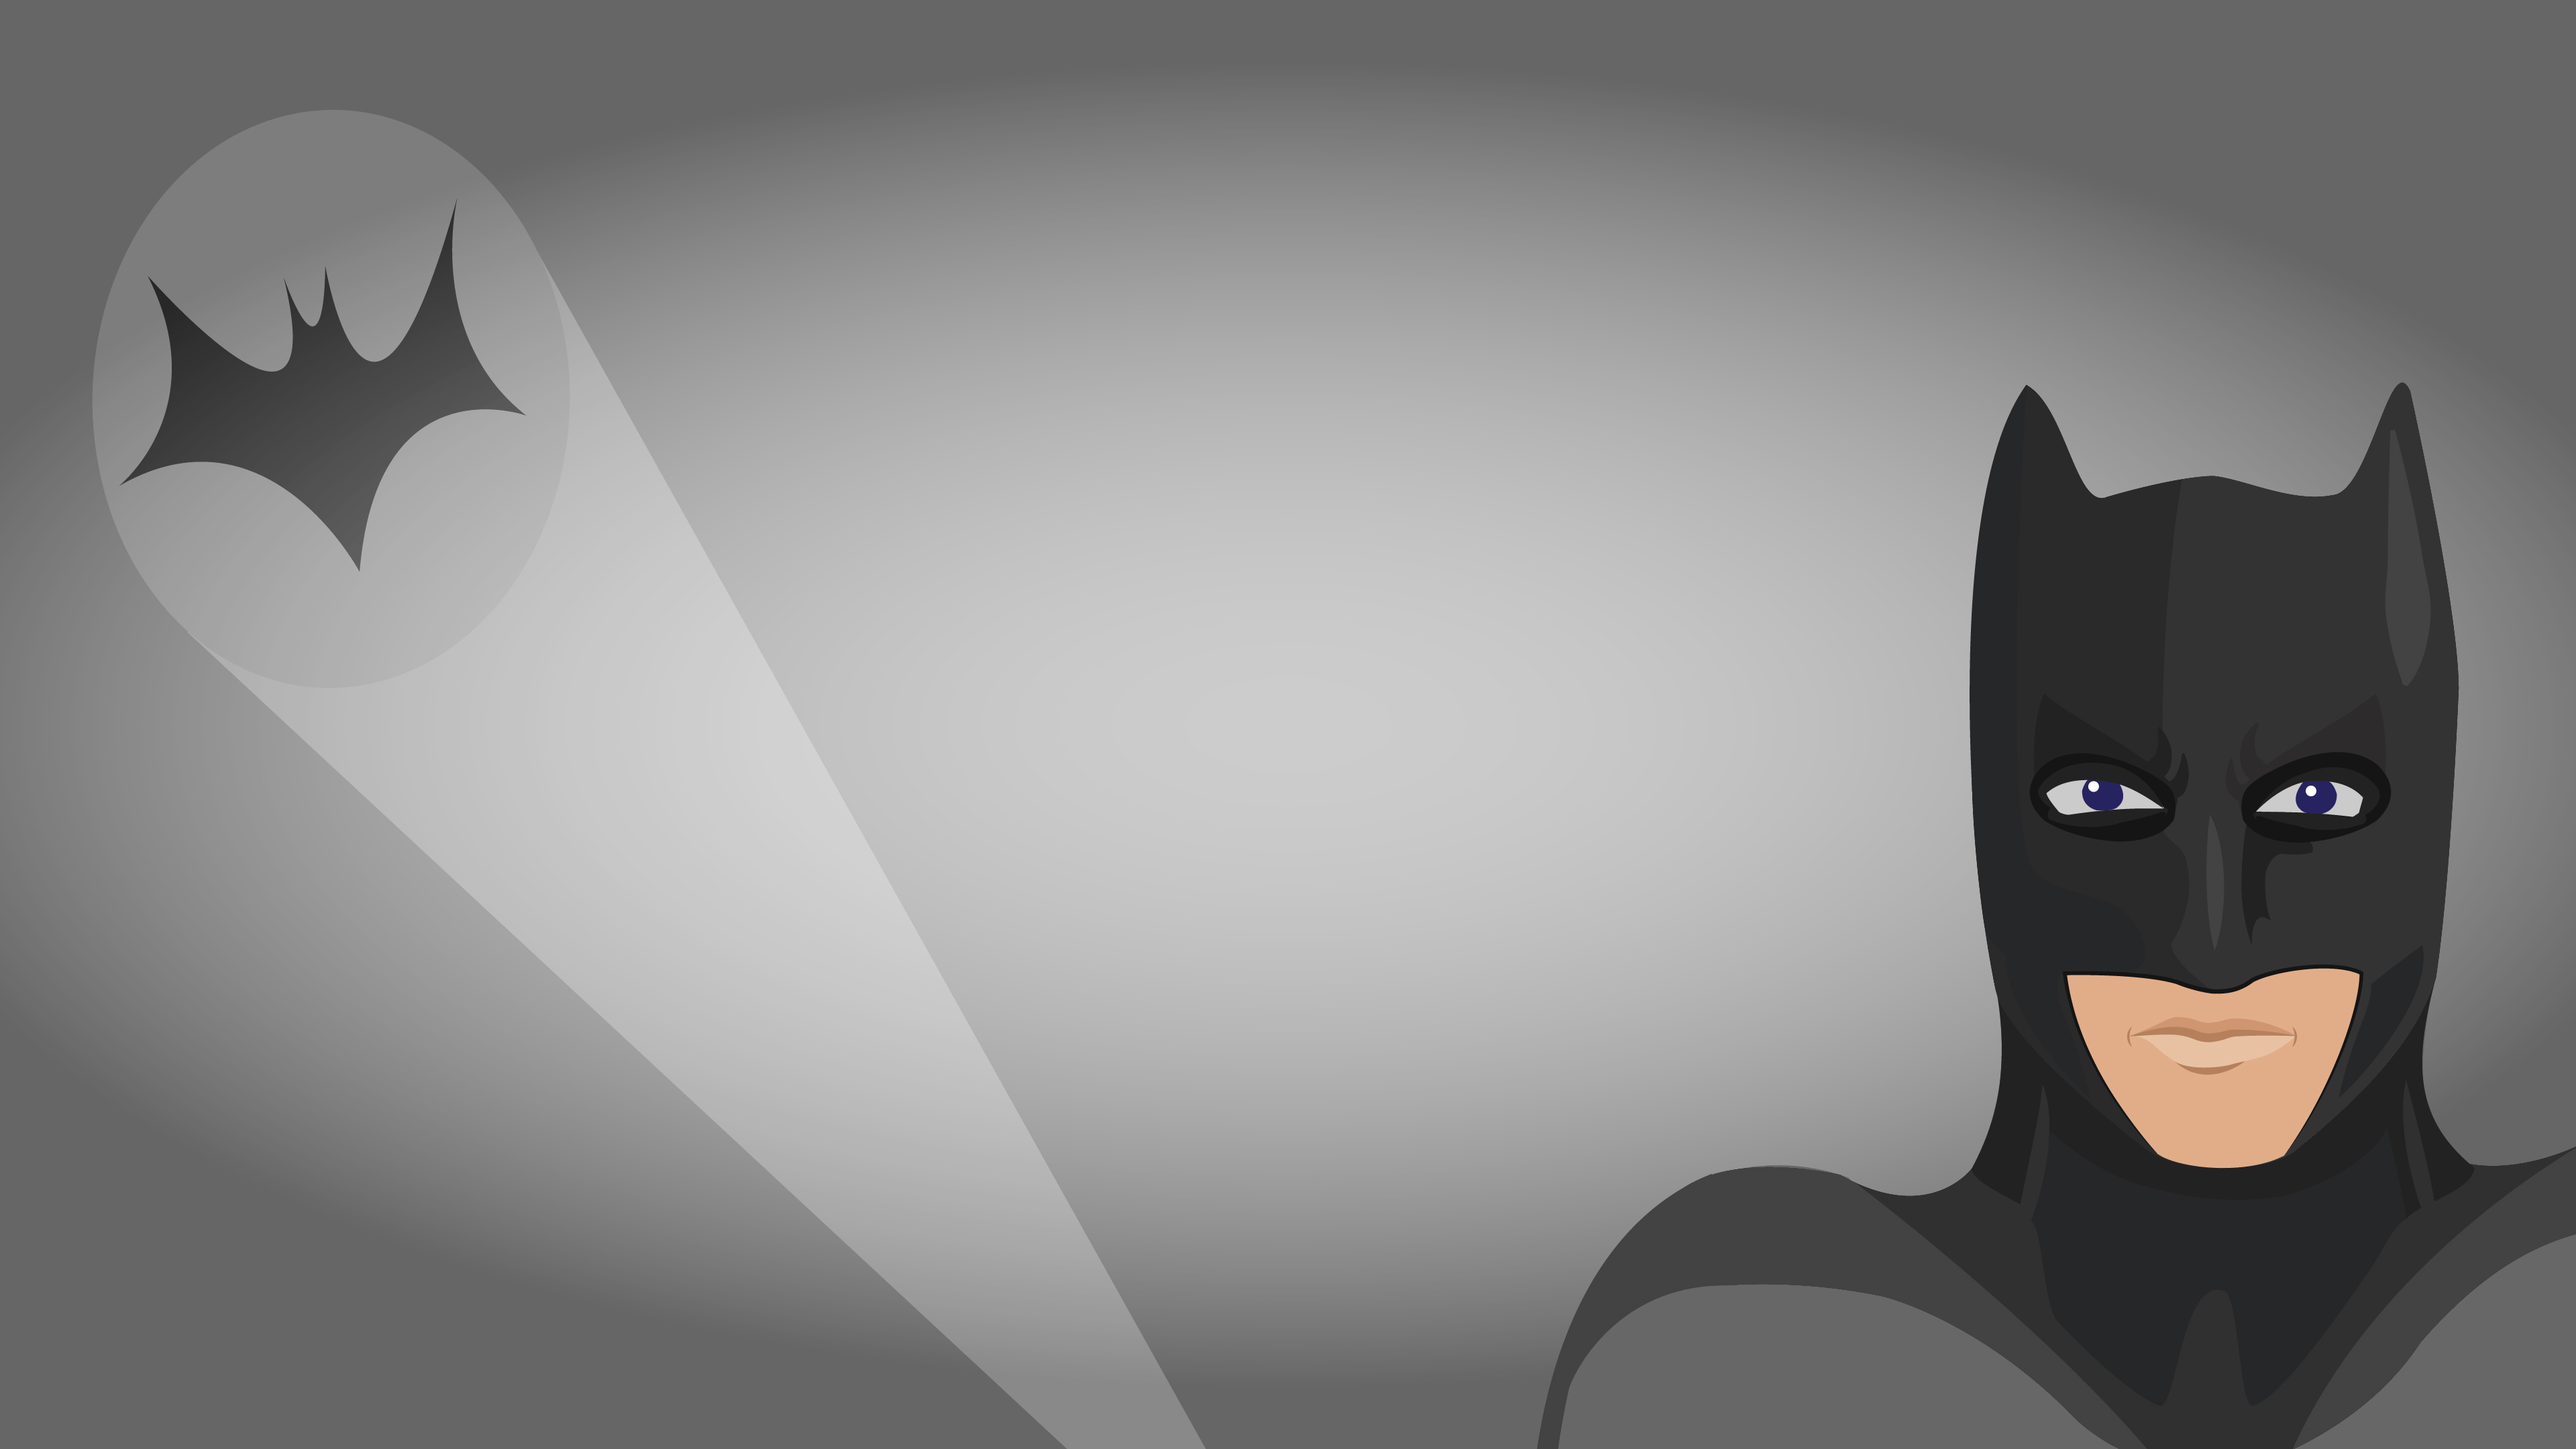
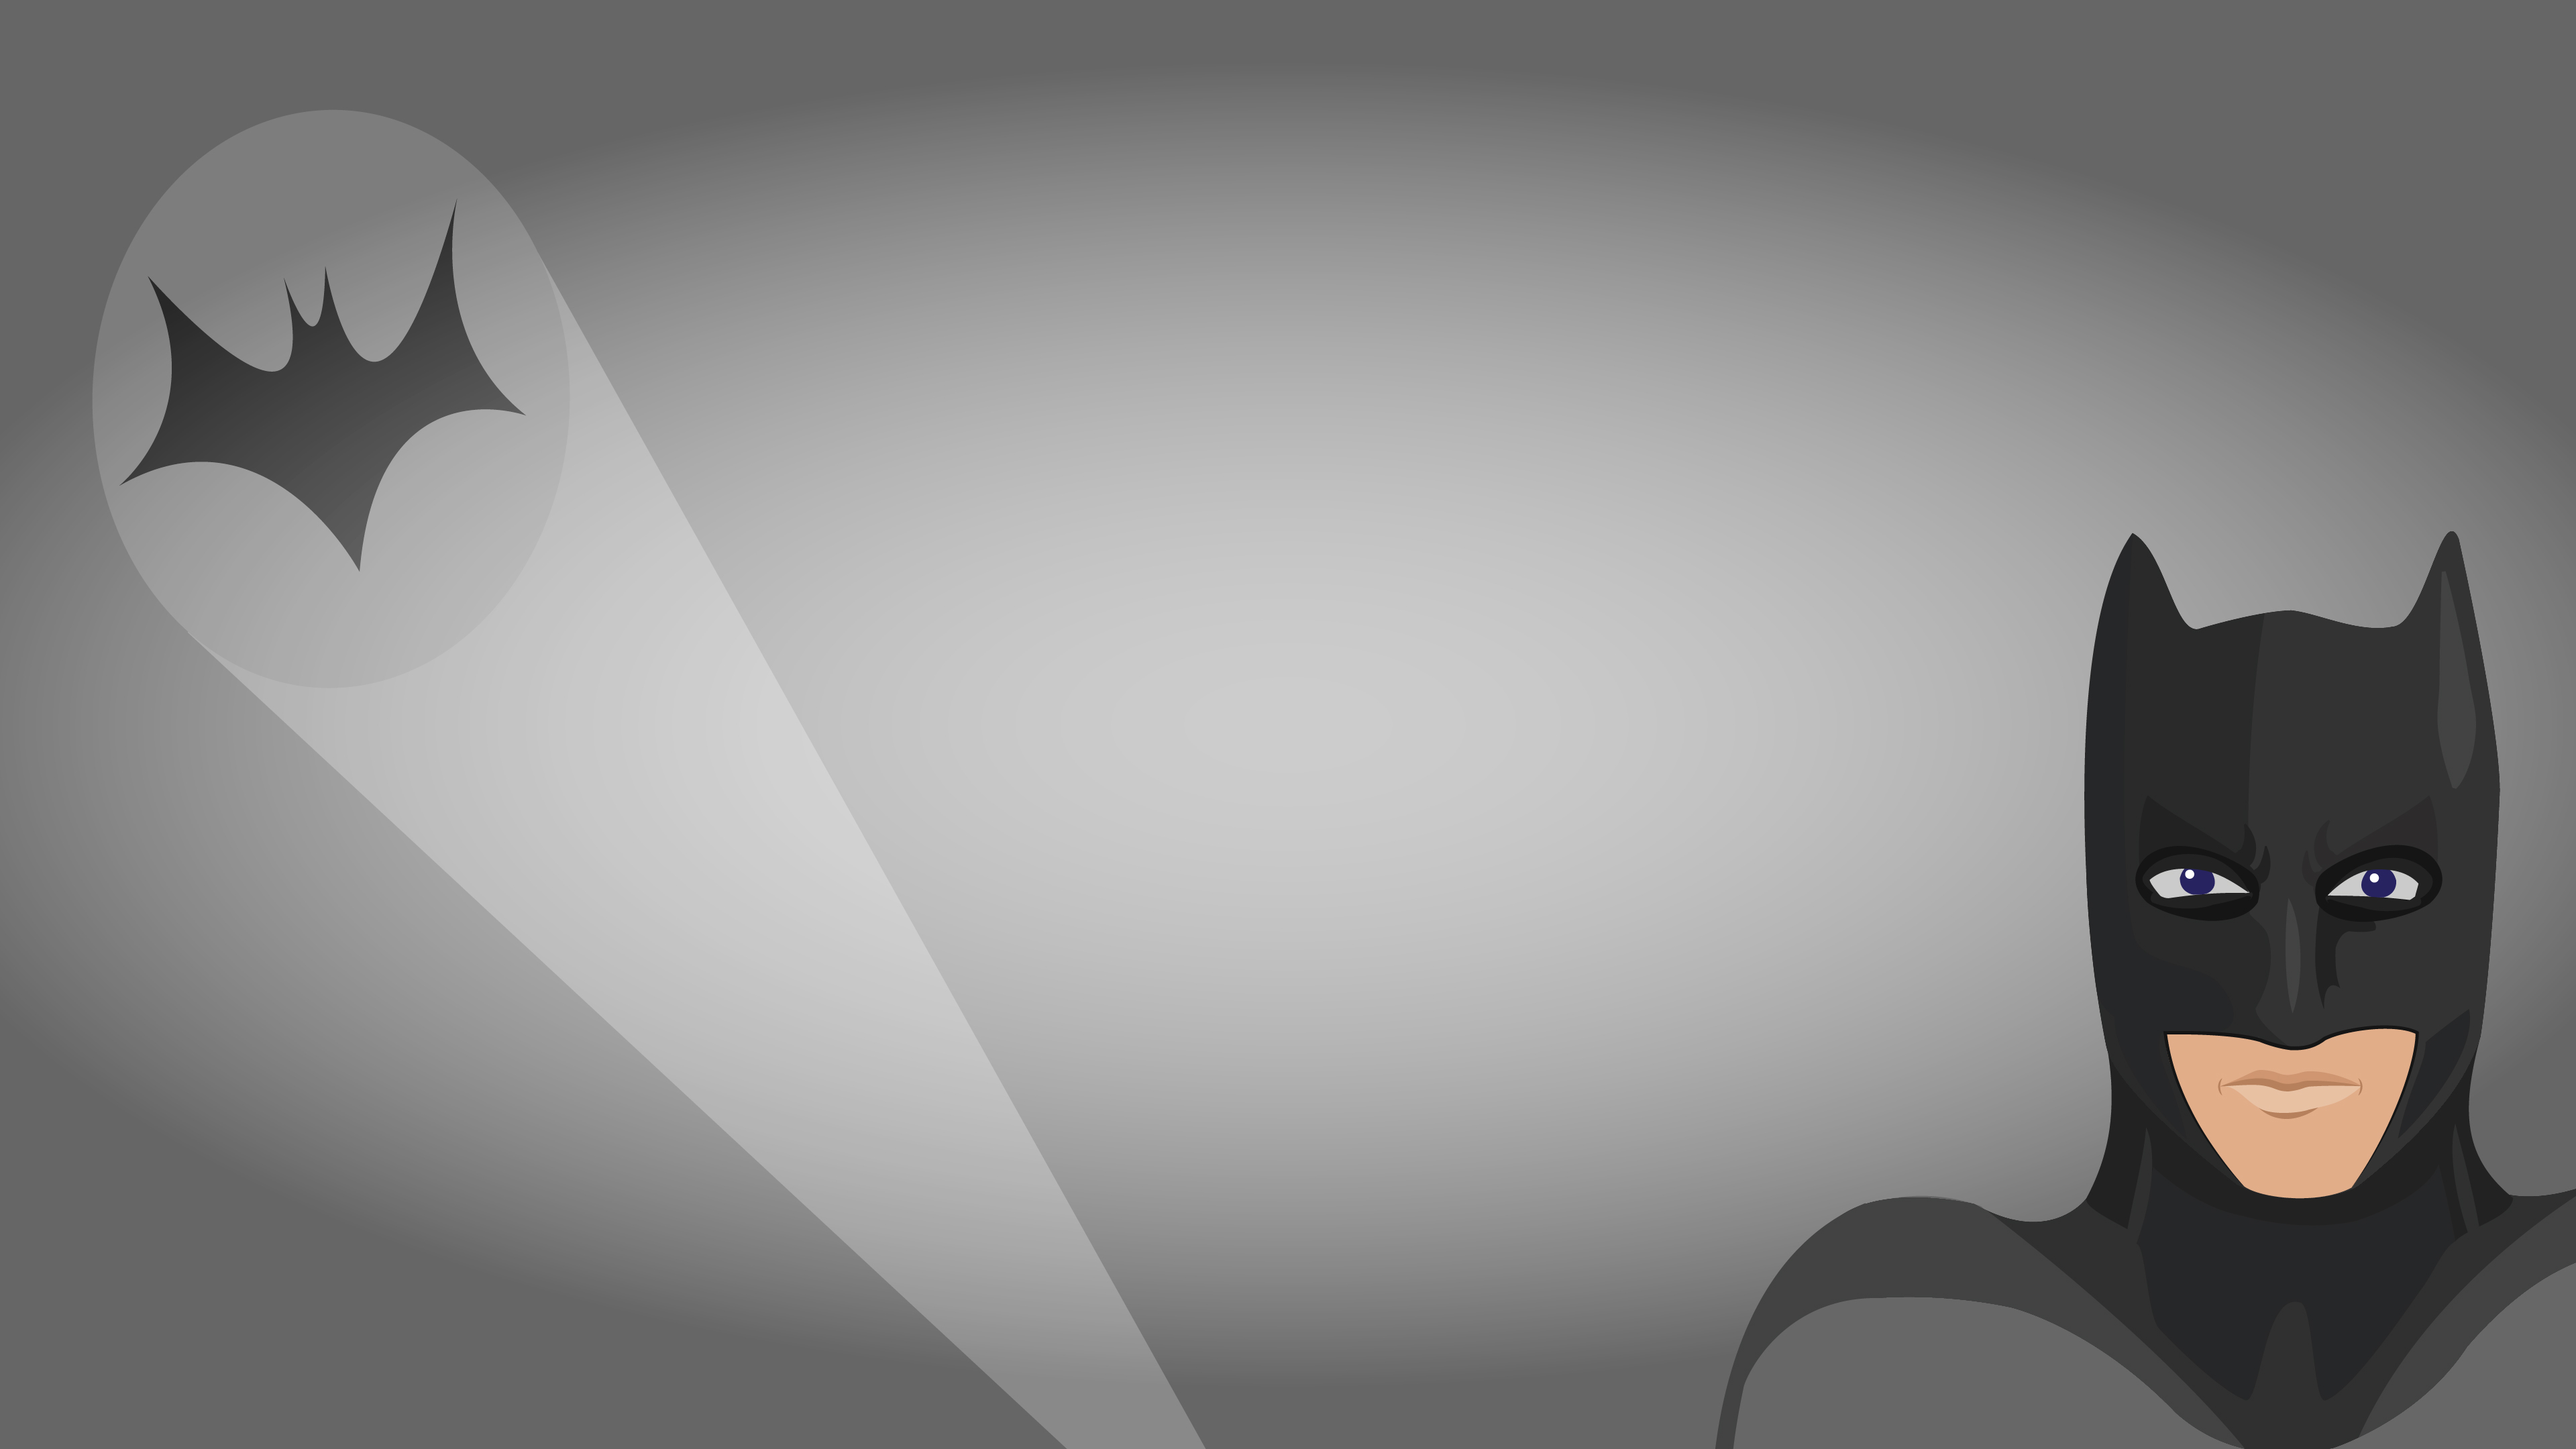
Add elements to 404 page

Changed region(s): [[0.5938, 0.2481, 1.0, 1.0]]

diff --git a/404.html b/404.html
@@ -7,8 +7,13 @@ og_name: "Page Not Found • Patricia Danochristos"
 og_description: "The page you are looking for was not found. Error 404."
 meta_description: "The page you are looking for was not found. Error 404."
 ---
-<div class="batman">
-  <h1 class="">404</h1>
-  <h2 class="">na na na na na na na na na na na na na na na na</h2>
-  <p class=""></p>
-</div>
+<body class="batman">
+  {% pattern navigation/logo-nav-2 %}
+  <div class="batman-content text-center max-length">
+    <h1 class="push-0 tenamega bold bat-h1">404</h1>
+    <h2 class="push-0 bat-h2 zetta">na na na na na na na na na na na na na na na na</h2>
+    <h3 class="bold bat-h3 tena">Uh, oh...</h3>
+    <p class="bat-p tera">...you've accidently made your way into Gotham City!</p>
+    <p class="bat-p milli pad-t-1-2">Follow the light to get yourself back to uncorrupt territory!</p>
+  </div>
+</body>

diff --git a/css/main.css b/css/main.css
@@ -34,5 +34,28 @@
 }
 
 .batman {
-  background-image: url("../images/batman.jpg");
+  background-image: url("../images/batman3.jpg");
+  background-size: cover;
+  background-repeat: no-repeat;
+  background-attachment: fixed;
+  background-position: right;
+}
+
+.bat-h1, .bat-h2, .bat-h3, .bat-p {
+  color: #ffffff;
+  font-family: var(--font-primary);
+}
+
+.bat-h1 {
+  padding-top: 25px;
+}
+
+.bat-h2 {
+  max-width: 9em;
+  margin: auto;
+}
+
+.bat-p {
+  max-width: 15em;
+  margin: auto;
 }

diff --git a/_patterns/navigation/logo-nav-2.html b/_patterns/navigation/logo-nav-2.html
@@ -1,0 +1,5 @@
+<a href="/index/" class="logo-fixed-2" aria-label="A link the home page of the website">
+  <i class="icon i-64">
+    <img class="logo img-flex" src="/images/logo-black.svg" alt="A personal logo for the website">
+  </i>
+</a>

diff --git a/_patterns/navigation/navigation.css b/_patterns/navigation/navigation.css
@@ -61,6 +61,13 @@ a:hover {
   display: none;
 }
 
+.logo-fixed-2 {
+  position: fixed;
+  top: 15px;
+  right: 15px;
+  display: inline;
+}
+
 @media only screen and (min-width: 60em) {
 
   .logo-fixed {
